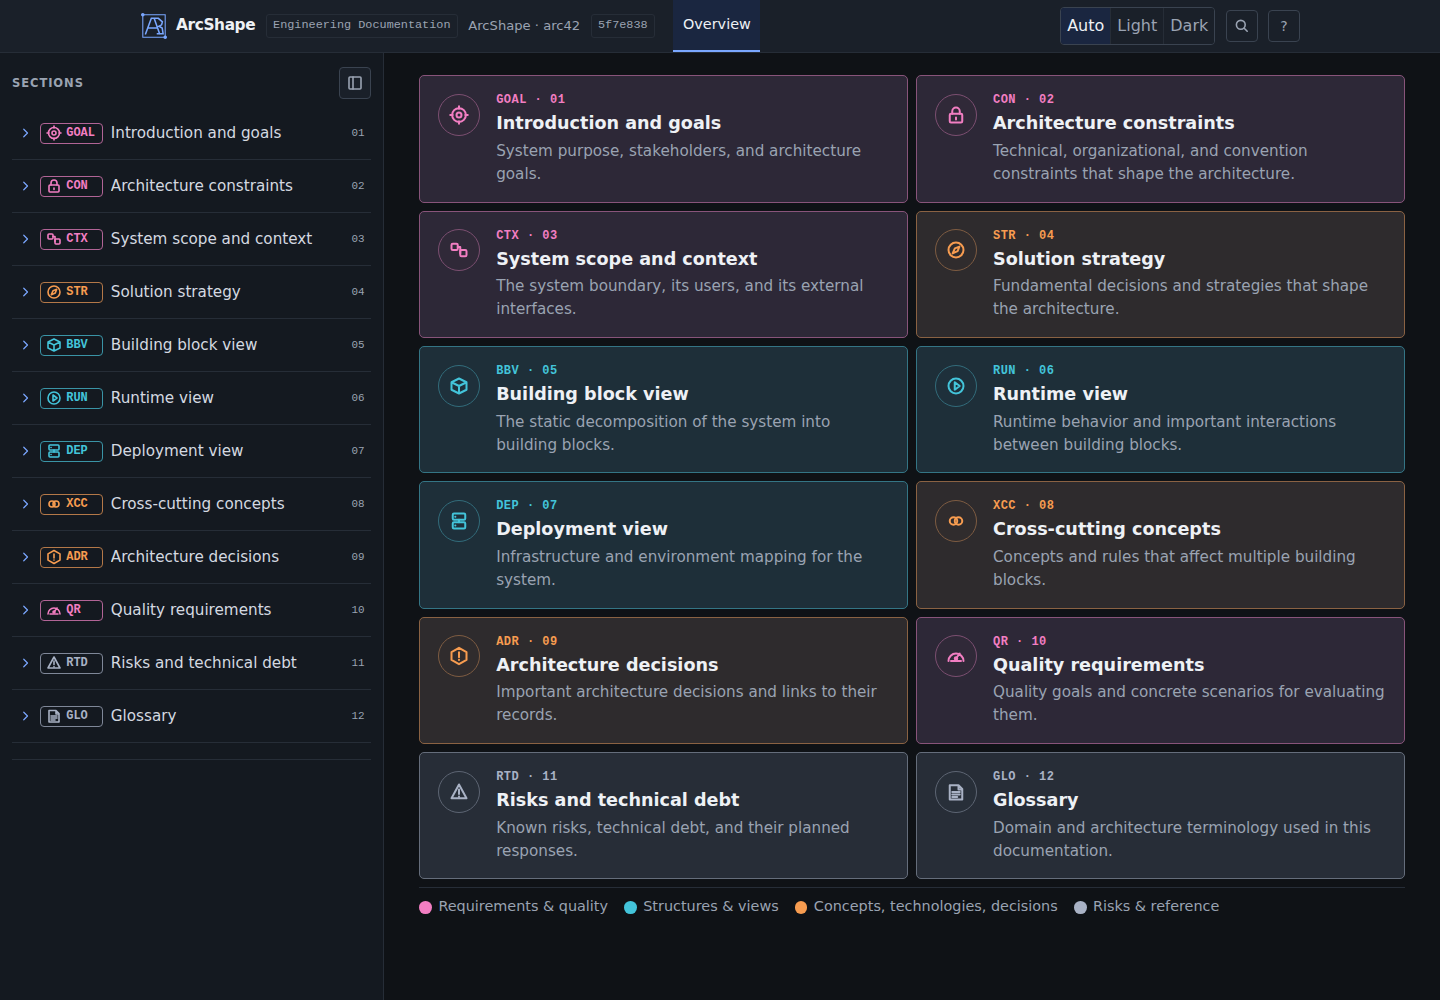
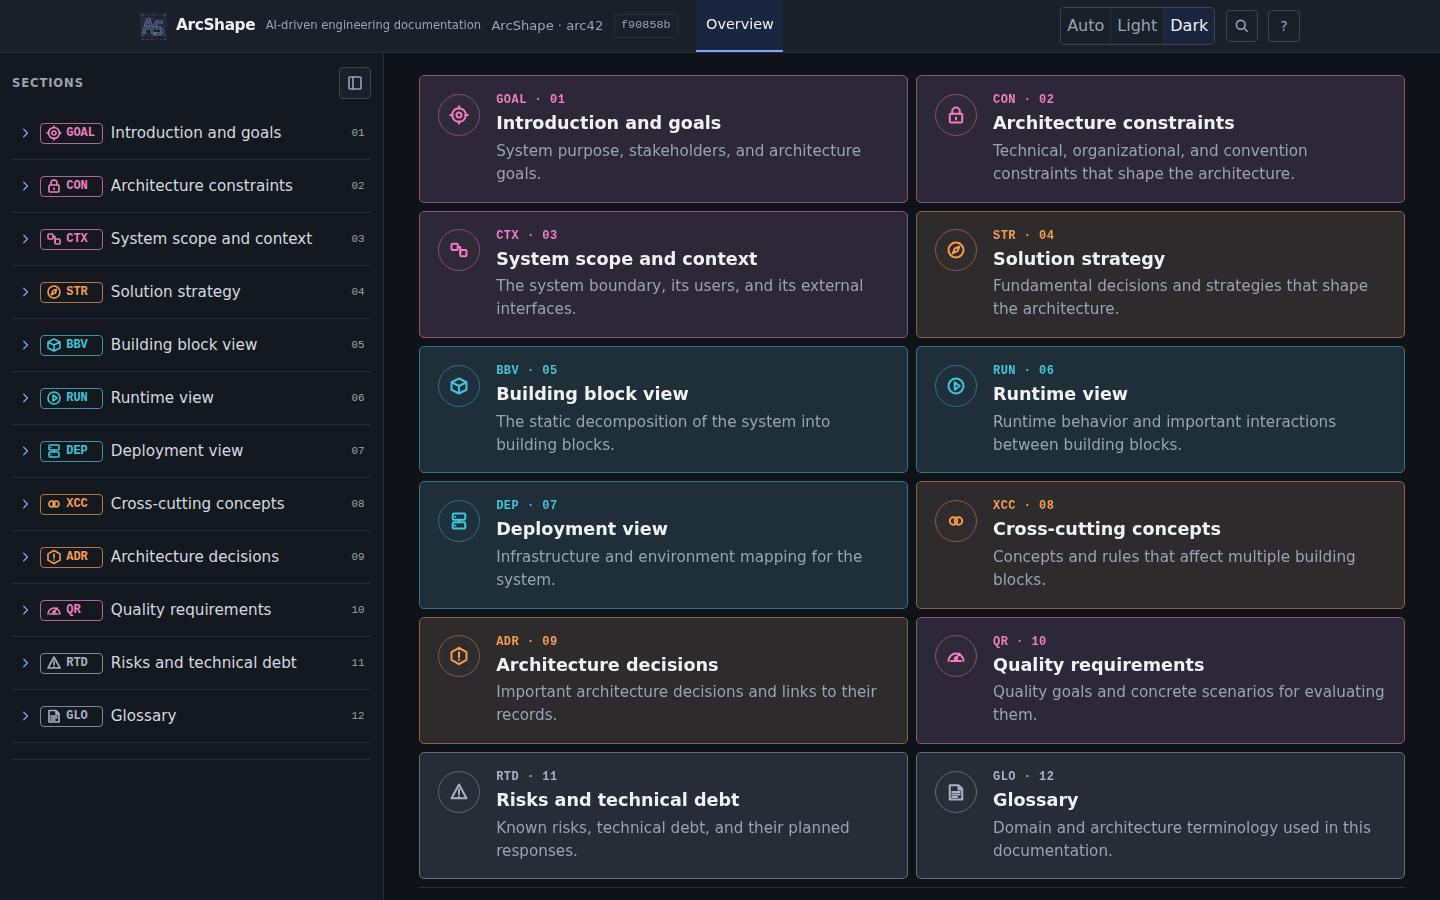
fix(branding): restore original ArcShape lockup
Refs #78

diff --git a/src/public-site/public/styles.css b/src/public-site/public/styles.css
@@ -7,7 +7,7 @@
 *{box-sizing:border-box}html{scroll-behavior:smooth}body{margin:0;color:var(--text);background:var(--page)}a{color:var(--accent)}:focus-visible{outline:2px solid var(--accent);outline-offset:2px}
 .skip{position:absolute;left:-9999px;top:0;z-index:10;padding:.5rem .75rem;color:var(--ink);background:var(--raised);border:1px solid var(--line-strong)}.skip:focus{left:.75rem;top:.75rem}
 .topbar{min-height:52px;display:flex;align-items:center;gap:.65rem;padding:0 max(1.25rem,calc((100vw - 1160px)/2));background:var(--raised);border-bottom:1px solid var(--line)}
-.brand{display:inline-flex;align-items:center;flex:none;gap:.5rem;color:var(--ink);text-decoration:none}.brand img{display:block;width:28px;height:28px}.brand-title{font-size:.96rem;font-weight:650;letter-spacing:-.025em}.header-badge{flex:none;padding:.12rem .4rem;border:1px solid var(--line);border-radius:3px;color:var(--muted);font-size:.72rem;white-space:nowrap}
+.brand{display:inline-flex;align-items:center;flex:none;gap:.5rem;color:var(--ink);text-decoration:none}.header-badge{flex:none;padding:.12rem .4rem;border:1px solid var(--line);border-radius:3px;color:var(--muted);font-size:.72rem;white-space:nowrap}
 .topbar nav{display:flex;align-items:stretch;align-self:stretch;gap:.15rem;margin-left:.45rem}.topbar nav a{display:inline-flex;align-items:center;padding:.35rem .6rem;border-bottom:2px solid transparent;color:var(--muted);text-decoration:none;white-space:nowrap}.topbar nav a:hover,.topbar nav a[aria-current="page"]{color:var(--ink);background:var(--panel);border-bottom-color:var(--accent)}.topbar nav a.language{border:1px solid var(--line);border-radius:3px;align-self:center;min-height:28px;margin-left:.3rem;padding:0 .45rem;font:600 .72rem/1 system-ui,sans-serif}
 .header-spacer{flex:1}.appearance{display:inline-flex;flex:none;overflow:hidden;border:1px solid var(--line-strong);border-radius:4px}.appearance button{min-width:30px;height:28px;padding:0 .35rem;border:0;background:var(--raised);color:var(--muted);font:inherit;cursor:pointer}.appearance button+button{border-left:1px solid var(--line)}.appearance button[aria-pressed="true"]{background:var(--accent-soft);color:var(--ink)}.menu-toggle{display:none;width:30px;height:30px;padding:5px;border:1px solid var(--line-strong);border-radius:4px;color:var(--muted);background:var(--raised)}.menu-toggle svg{width:100%;height:100%;fill:none;stroke:currentColor;stroke-width:1.6}
 main{overflow:hidden}.hero{width:min(1160px,100%);min-height:490px;margin:auto;padding:3.25rem 1.5rem 2.75rem;display:grid;grid-template-columns:minmax(0,1fr) minmax(350px,.95fr);align-items:center;gap:2rem}.hero-copy{max-width:590px}.eyebrow{margin:0 0 .65rem;color:var(--accent);font-size:.74rem;font-weight:700;letter-spacing:.12em;text-transform:uppercase}h1,h2,h3{color:var(--ink);line-height:1.16;letter-spacing:-.035em}h1{max-width:14ch;margin:0 0 1rem;font-size:clamp(2.25rem,4.6vw,2.75rem);font-weight:650}h1 em{color:var(--accent);font-style:normal}.lead{max-width:58ch;color:var(--muted);font-size:1.08rem;line-height:1.6}.actions{display:flex;flex-wrap:wrap;align-items:center;gap:.65rem;margin:1.5rem 0 1rem}.button{display:inline-flex;align-items:center;gap:.45rem;min-height:38px;padding:.45rem .8rem;border:1px solid var(--line-strong);border-radius:4px;color:var(--ink);background:var(--raised);font-weight:600;text-decoration:none}.button:hover{border-color:var(--accent);text-decoration:none}.button.primary{color:var(--action-ink);border-color:var(--action);background:var(--action)}.button.primary:hover{background:var(--action-hover)}.button.light{color:var(--ink);border-color:var(--line-strong);background:var(--raised)}.text-link{font-weight:600;text-decoration:none}.text-link:hover,footer a:hover{text-decoration:underline}.note{color:var(--muted);font-size:.86rem}
@@ -16,5 +16,5 @@ main{overflow:hidden}.hero{width:min(1160px,100%);min-height:490px;margin:auto;p
 .artifacts{padding:4rem max(1.5rem,calc((100vw - 1160px)/2));display:grid;grid-template-columns:minmax(0,1fr) minmax(0,.8fr);gap:3rem;align-items:center;border-block:1px solid var(--line);background:var(--panel)}.artifact-copy .eyebrow{color:var(--accent)}.artifact-copy>p:not(.eyebrow){color:var(--muted)}.artifact-stack{display:flex;flex-direction:column;align-items:center}.artifact-card{width:min(100%,340px);padding:1rem 1.1rem;border:1px solid var(--line-strong);border-radius:4px;color:var(--text);background:var(--raised)}.card-label{color:var(--muted);font-size:.64rem;font-weight:700;letter-spacing:.12em}.doc-lines{height:66px;margin:.8rem 0;display:flex;flex-direction:column;gap:6px}.doc-lines b,.doc-lines i{width:82%;height:4px;border-radius:2px;background:var(--line)}.doc-lines b{width:48%;background:var(--accent)}.doc-lines i:nth-child(3){width:65%}.artifact-card strong,.artifact-card small{display:block}.artifact-card strong{color:var(--ink);font-weight:650}.artifact-card small{margin-top:2px;color:var(--muted);font-size:.76rem}.connector{height:34px;display:grid;place-items:center;color:var(--accent);font-size:1.2rem}.mini-browser{height:82px;margin:.8rem 0;padding:8px;border:1px solid var(--line);background:var(--panel)}.dots{display:flex;gap:4px}.dots i{width:5px;height:5px;border-radius:50%;background:var(--line-strong)}.mini-layout{display:grid;grid-template-columns:40px 1fr;gap:4px;margin-top:7px}.mini-layout b{grid-row:span 3;background:var(--line)}.mini-layout span{height:6px;background:var(--line-strong)}.mini-layout span:nth-child(2){width:80%}.mini-layout span:nth-child(3){width:70%}.closing{max-width:760px;margin:auto;padding:4rem 1.5rem;text-align:center}.closing>p:not(.eyebrow){margin-inline:auto}.closing .button{margin-top:.75rem}footer{width:min(1160px,100%);min-height:60px;margin:auto;padding:1rem 1.5rem;display:flex;align-items:center;gap:1.25rem;border-top:1px solid var(--line);color:var(--muted);font-size:.8rem}footer a{color:var(--muted);text-decoration:none}footer .footer-brand{margin-right:auto;color:var(--ink);font-weight:650}
 @media(max-width:900px){.topbar{flex-wrap:wrap;padding:.5rem 1rem 0;gap:.5rem}.header-spacer{flex:1}.menu-toggle{display:block}.topbar nav{order:5;flex:1 0 100%;max-width:100%;overflow-x:auto;margin:0;border-top:1px solid var(--line);scrollbar-width:thin}.topbar nav a{min-height:40px}.hero{min-height:0;grid-template-columns:1fr;padding-top:2.6rem}.hero-copy{max-width:700px}.hero-art{min-height:340px}.artifacts{gap:2rem}}
 @media(max-width:620px){.brand-title{font-size:.9rem}.header-badge{display:none}.topbar{gap:.4rem}.topbar nav{gap:0}.hero{padding:2.25rem 1.1rem 2rem;gap:.5rem}.hero-art{min-height:300px}.orbit-a{width:270px;height:170px}.orbit-b{width:230px;height:135px}.node{padding:.35rem .45rem;font-size:.68rem}.node-one{left:0}.node-two{right:0}.node-three{left:4%}.strip{width:calc(100% - 2.2rem);margin-bottom:3rem;padding:.85rem .2rem;justify-content:center;flex-wrap:wrap;gap:.4rem .75rem;font-size:.74rem}.strip i{display:none}.section{padding:0 1.1rem 3.25rem}.steps{grid-template-columns:1fr;gap:1.1rem;margin-top:1.7rem}.steps article{padding-top:.75rem}.steps h3{margin:.65rem 0 .35rem}.artifacts{padding:3rem 1.1rem;grid-template-columns:1fr;gap:1.5rem}.closing{padding:3rem 1.1rem}footer{padding:1rem 1.1rem;flex-wrap:wrap;gap:.5rem 1rem}footer span{order:3;flex-basis:100%}}
-@media(max-width:370px){.brand-title{max-width:112px;overflow:hidden;text-overflow:ellipsis;white-space:nowrap}.appearance button{min-width:27px}.hero-art{min-height:270px}.node{max-width:145px}}
+@media(max-width:370px){.appearance button{min-width:27px}.hero-art{min-height:270px}.node{max-width:145px}}
 @media(prefers-reduced-motion:reduce){html{scroll-behavior:auto}}

diff --git a/src/engineering-portal/src/styles/portal.css b/src/engineering-portal/src/styles/portal.css
@@ -2,6 +2,6 @@
 @media(prefers-color-scheme:dark){:root:not([data-appearance="light"]){color-scheme:dark;--page:#0f1216;--panel:#141920;--raised:#1a2029;--ink:#eef1f5;--text:#d4d9e1;--muted:#9aa3b2;--line:#262d37;--line-strong:#3a4350;--accent:#7aa7ff;--accent-soft:#1a2640}}
 :root[data-appearance="dark"]{color-scheme:dark;--page:#0f1216;--panel:#141920;--raised:#1a2029;--ink:#eef1f5;--text:#d4d9e1;--muted:#9aa3b2;--line:#262d37;--line-strong:#3a4350;--accent:#7aa7ff;--accent-soft:#1a2640}
 *{box-sizing:border-box}body{margin:0;color:var(--text);background:var(--page)}a{color:var(--accent)}:focus-visible{outline:2px solid var(--accent);outline-offset:2px}.wrap{width:min(1160px,100%);margin:auto;padding:0 1.5rem}
-.site-header{min-height:52px;display:flex;align-items:center;gap:.65rem;padding:0 max(1.25rem,calc((100vw - 1160px)/2));border-bottom:1px solid var(--line);background:var(--raised)}.brand{display:inline-flex;align-items:center;flex:none;gap:.5rem;color:var(--ink);text-decoration:none}.brand img{width:28px;height:28px}.brand-title{font-size:.96rem;font-weight:650;letter-spacing:-.025em}.header-badge{padding:.12rem .4rem;border:1px solid var(--line);border-radius:3px;color:var(--muted);font-size:.72rem;white-space:nowrap}.header-spacer{flex:1}.site-header nav{display:flex;align-self:stretch;align-items:stretch;gap:.15rem;margin-left:.5rem}.site-header nav a{display:inline-flex;align-items:center;padding:.35rem .6rem;border-bottom:2px solid transparent;color:var(--muted);text-decoration:none;white-space:nowrap}.site-header nav a:hover{color:var(--ink);background:var(--panel);border-bottom-color:var(--accent)}.appearance{display:inline-flex;overflow:hidden;border:1px solid var(--line-strong);border-radius:4px}.appearance button{min-width:30px;height:28px;padding:0 .35rem;border:0;color:var(--muted);background:var(--raised);font:inherit;cursor:pointer}.appearance button+button{border-left:1px solid var(--line)}.appearance button[aria-pressed="true"]{color:var(--ink);background:var(--accent-soft)}
+.site-header{min-height:52px;display:flex;align-items:center;gap:.65rem;padding:0 max(1.25rem,calc((100vw - 1160px)/2));border-bottom:1px solid var(--line);background:var(--raised)}.brand{display:inline-flex;align-items:center;flex:none;gap:.5rem;color:var(--ink);text-decoration:none}.header-badge{padding:.12rem .4rem;border:1px solid var(--line);border-radius:3px;color:var(--muted);font-size:.72rem;white-space:nowrap}.header-spacer{flex:1}.site-header nav{display:flex;align-self:stretch;align-items:stretch;gap:.15rem;margin-left:.5rem}.site-header nav a{display:inline-flex;align-items:center;padding:.35rem .6rem;border-bottom:2px solid transparent;color:var(--muted);text-decoration:none;white-space:nowrap}.site-header nav a:hover{color:var(--ink);background:var(--panel);border-bottom-color:var(--accent)}.appearance{display:inline-flex;overflow:hidden;border:1px solid var(--line-strong);border-radius:4px}.appearance button{min-width:30px;height:28px;padding:0 .35rem;border:0;color:var(--muted);background:var(--raised);font:inherit;cursor:pointer}.appearance button+button{border-left:1px solid var(--line)}.appearance button[aria-pressed="true"]{color:var(--ink);background:var(--accent-soft)}
 .page{padding-top:3.25rem;padding-bottom:4rem}.eyebrow{margin:0 0 .65rem;color:var(--accent);font-size:.74rem;font-weight:700;letter-spacing:.12em;text-transform:uppercase}.page h1{margin:0 0 .8rem;color:var(--ink);font-size:clamp(2rem,4vw,2.75rem);line-height:1.14;letter-spacing:-.04em;font-weight:650}.lede{max-width:68ch;color:var(--muted);font-size:1.02rem}.cards{display:grid;grid-template-columns:repeat(2,minmax(0,1fr));gap:0;margin:2.5rem 0 1.5rem;border-top:1px solid var(--line);border-left:1px solid var(--line)}.card{min-height:154px;padding:1.1rem 1.2rem;border-right:1px solid var(--line);border-bottom:1px solid var(--line);color:var(--text);background:var(--page);text-decoration:none}.card:hover{background:var(--panel);text-decoration:none}.label{color:var(--accent);font:600 .72rem ui-monospace,SFMono-Regular,monospace;letter-spacing:.06em}.card h2{margin:.65rem 0 .35rem;color:var(--ink);font-size:1.15rem;line-height:1.35;letter-spacing:-.02em}.card p{max-width:64ch;margin:0;color:var(--muted)}#e2e-card[hidden]{display:none}.public{margin:1.5rem 0;font-weight:600}.meta{margin-top:2rem;padding-top:1rem;border-top:1px solid var(--line);color:var(--muted);font-size:.82rem}.meta a{overflow-wrap:anywhere}.site-footer{padding:1rem 0 1.5rem;border-top:1px solid var(--line);color:var(--muted);font-size:.8rem}.footer-brand{display:inline-flex;margin-bottom:.5rem}.footer-brand img{width:175px;height:27px}.site-footer p{margin:.25rem 0}
 @media(max-width:760px){.site-header{flex-wrap:wrap;padding:.5rem 1rem 0;gap:.5rem}.header-badge{display:none}.site-header nav{order:5;flex:1 0 100%;overflow-x:auto;margin:0;border-top:1px solid var(--line)}.site-header nav a{min-height:40px}.wrap{padding-inline:1.1rem}.page{padding-top:2.25rem}.cards{grid-template-columns:1fr;margin-top:1.75rem}.card{min-height:0;padding:1rem}.site-footer{padding-bottom:1rem}}

diff --git a/docs/delivery/issue-78/visual-review.md b/docs/delivery/issue-78/visual-review.md
@@ -2,9 +2,9 @@
 
 Baseline captures were taken from the approved plan revision before source changes. The post-migration captures were produced from the Astro public build and assembled engineering build on 2026-10-19.
 
-The original `after/` captures document the Astro migration before the design-system alignment. They are retained as historical evidence and do not represent the latest styling. The additional captures under `after/theme-alignment/` show the current public, engineering, and architecture surfaces after aligning their shared compact header, typography, surface colors, controls, focus treatment, and theme-aware ArcShape logo assets with ProductShape. The wordmark says “Engineering Documentation,” as requested. The public Spanish route keeps its navigation and exposes Spanish appearance control names.
+The original `after/` captures document the Astro migration before the design-system alignment. They are retained as historical evidence and do not represent the latest styling. The additional captures under `after/theme-alignment/` show the current public, engineering, and architecture surfaces after aligning their shared compact header, typography, surface colors, controls, focus treatment, and theme-aware ArcShape branding with ProductShape. The header and footer use the original ArcShape blueprint AS lockup from `src/public-site/src/assets/arcshape-lockup-source.png`, optimized as `arcshape-lockup.webp`; the public and engineering banners say “AI-driven engineering documentation.” The public Spanish route keeps its navigation and exposes Spanish appearance control names.
 
-The new captures were rendered from the built static outputs at 1440px desktop and 390px phone widths. Each was inspected; all have no document-width overflow. Light and dark appearances render with the matching brand asset and surface tokens. This is implementation evidence, not maintainer visual approval.
+The captures were rendered from the built static outputs at 1440px desktop and 390px phone widths. Each was inspected; all have no document-width overflow. Light and dark appearances render the ArcShape lockup and matching surface tokens. This is implementation evidence, not maintainer visual approval.
 
 These are local comparison captures; they do not substitute for maintainer visual acceptance. Current public and engineering route manifests are `route-manifest.after.json`; the original observed routes are retained in `route-manifest.json`.
 
